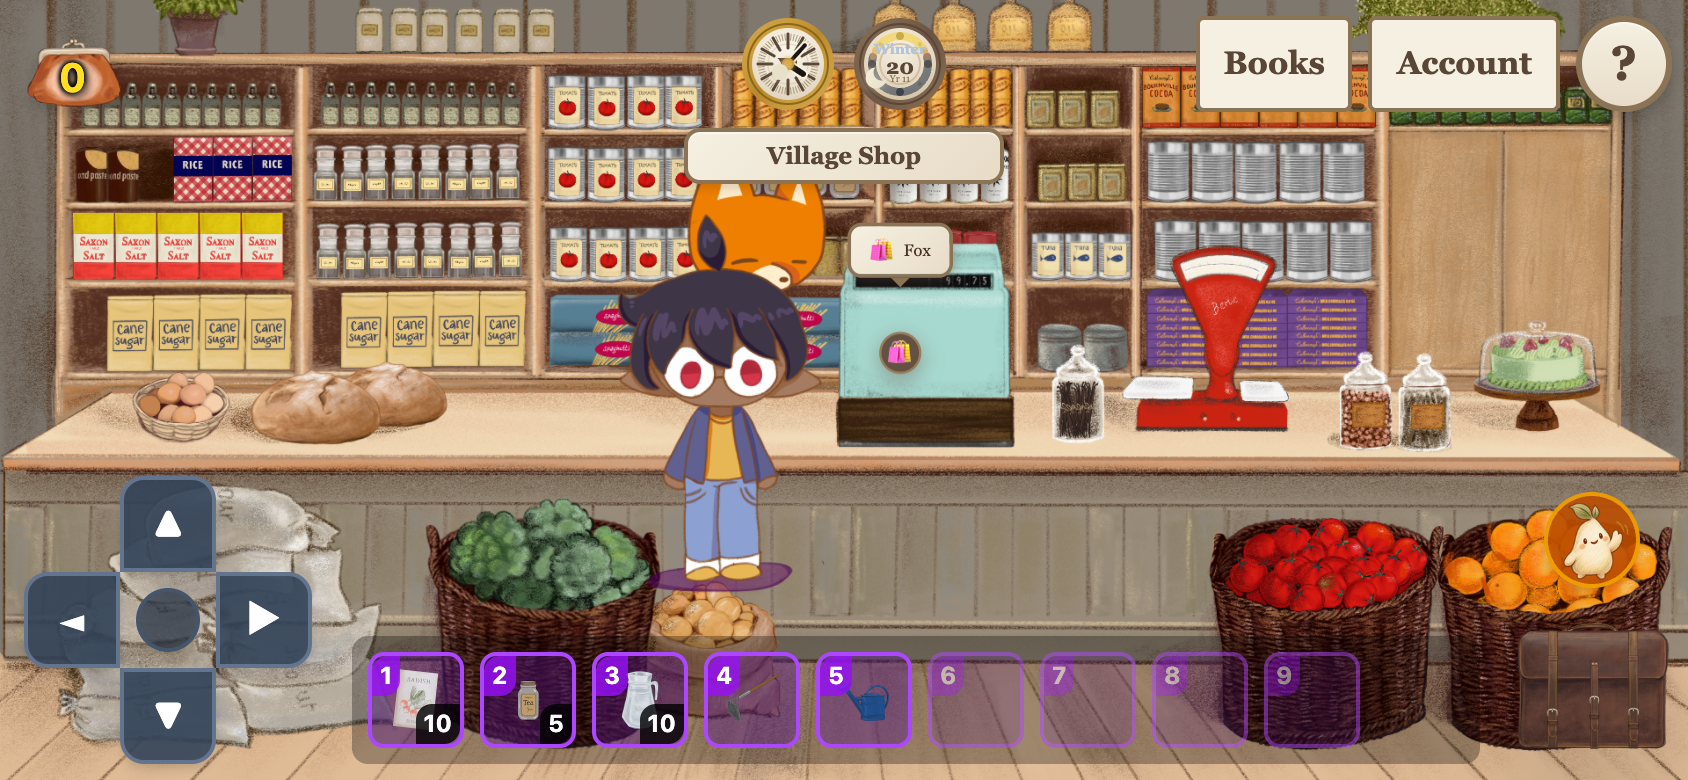
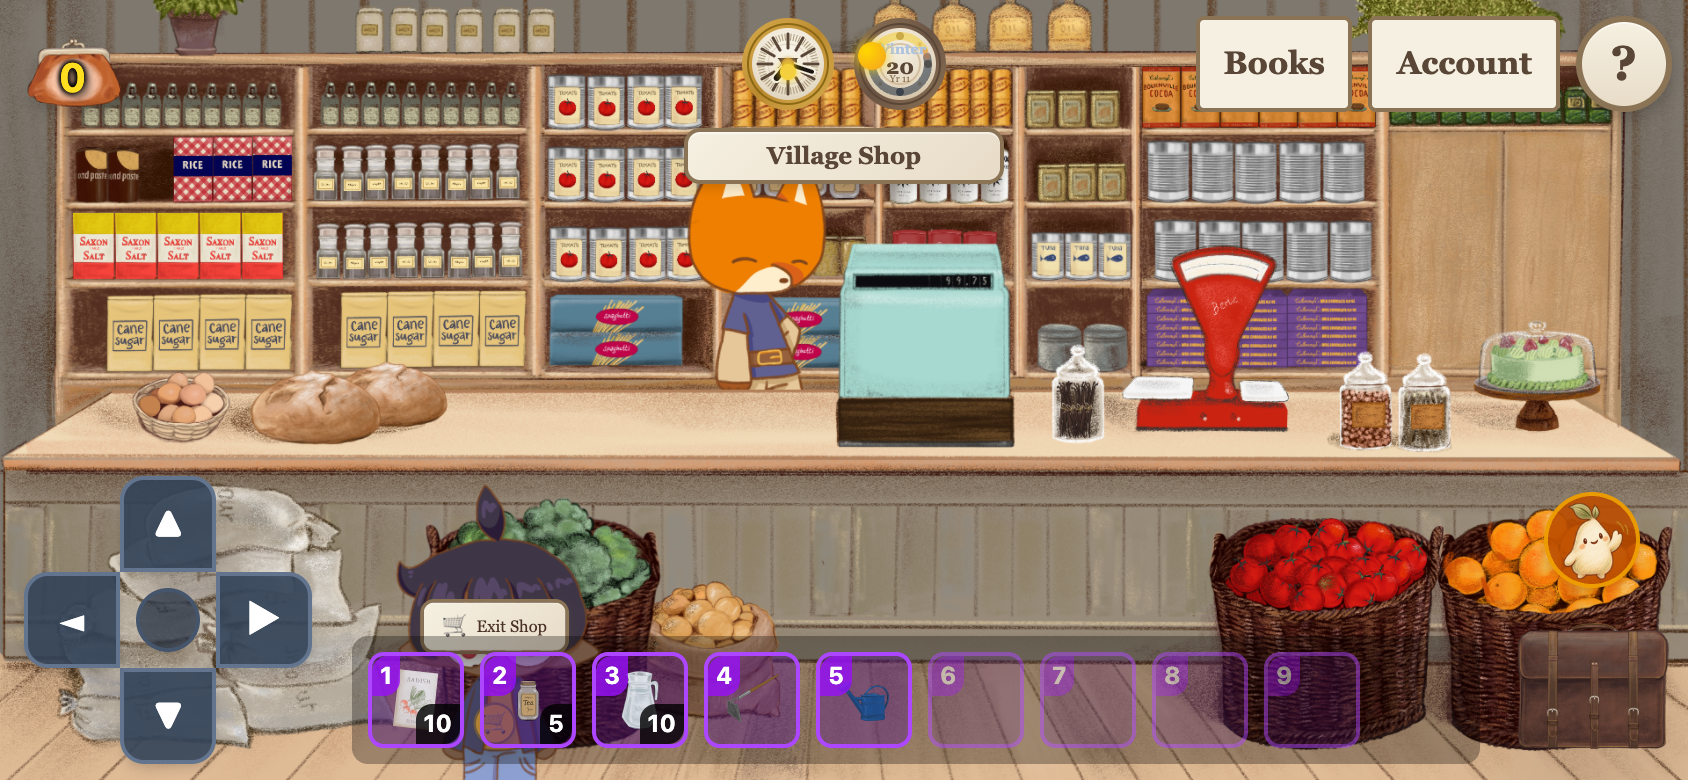
Correct shop review spawn and verify rendered zoom alignment

diff --git a/tests/interiorRenderedAlignment.test.ts b/tests/interiorRenderedAlignment.test.ts
@@ -1,0 +1,91 @@
+import * as PIXI from 'pixi.js';
+import { afterEach, expect, it, vi } from 'vitest';
+import { shop } from '../maps/definitions/shop';
+import { Direction } from '../types';
+import { BackgroundImageLayer } from '../utils/pixi/BackgroundImageLayer';
+import { PlayerSprite } from '../utils/pixi/PlayerSprite';
+import { textureManager } from '../utils/TextureManager';
+import { npcManager } from '../NPCManager';
+import { getRoomTransform } from '../utils/backgroundRoomLayout';
+import { screenToTile } from '../utils/screenToTile';
+
+afterEach(() => vi.restoreAllMocks());
+
+it('keeps rendered shop layers, player and inverse walkmesh coordinates aligned through zoom and pan', async () => {
+  vi.spyOn(textureManager, 'loadTexture').mockResolvedValue(PIXI.Texture.WHITE);
+  vi.spyOn(textureManager, 'getTexture').mockReturnValue(PIXI.Texture.WHITE);
+  vi.spyOn(npcManager, 'registerNPCs').mockImplementation(() => {});
+  const stage = new PIXI.Container();
+  const images = new BackgroundImageLayer();
+  images.setStage(stage);
+  const player = new PlayerSprite();
+  const actors = new PIXI.Container();
+  stage.addChild(actors);
+  player.setDepthContainer(actors);
+  try {
+    await images.loadLayers(shop, shop.id);
+    const artwork = stage.children.filter((child) => child instanceof PIXI.Sprite);
+    expect(artwork).toHaveLength(2);
+    for (const viewport of [
+      { width: 844, height: 390 },
+      { width: 640, height: 240 },
+    ]) {
+      for (const zoom of [viewport.width / 1440, 0.75, 1, 1.5]) {
+        for (const position of [shop.spawnPoint, { x: 9, y: 9 }, { x: 5, y: 10 }]) {
+          const layout = getRoomTransform(
+            shop,
+            position,
+            viewport,
+            1,
+            zoom,
+            Math.min(88, viewport.height * 0.2)
+          );
+          stage.scale.set(zoom);
+          images.setScalingConfig({
+            viewportScale: 1,
+            referenceWidth: 1280,
+            referenceHeight: 720,
+            viewportWidth: viewport.width / zoom,
+            viewportHeight: viewport.height / zoom,
+          });
+          images.setCenteredPan(layout.pan.x, layout.pan.y);
+          images.updateCamera(0, 0);
+          await player.update(
+            position,
+            Direction.Down,
+            0,
+            'test-player',
+            shop.characterScale,
+            layout.gridOffset,
+            layout.tileSize
+          );
+          const renderedPlayer = actors.children[0].getGlobalPosition();
+          for (const image of artwork) {
+            const bounds = image.getBounds();
+            // Authored grid uses 64px tiles on a 1200x675 image, independent of zoom.
+            expect((renderedPlayer.x - bounds.x) / bounds.width).toBeCloseTo(
+              (position.x * 64) / 1200
+            );
+            expect((renderedPlayer.y - bounds.y) / bounds.height).toBeCloseTo(
+              (position.y * 64) / 675
+            );
+          }
+          const tapped = screenToTile(
+            renderedPlayer.x,
+            renderedPlayer.y,
+            zoom,
+            0,
+            0,
+            layout.gridOffset,
+            layout.tileSize
+          );
+          expect(tapped.worldX).toBeCloseTo(position.x);
+          expect(tapped.worldY).toBeCloseTo(position.y);
+        }
+      }
+    }
+  } finally {
+    images.dispose();
+    stage.destroy({ children: true });
+  }
+});

diff --git a/docs/MOBILE_INTERIOR_CAMERA_PLAN.md b/docs/MOBILE_INTERIOR_CAMERA_PLAN.md
@@ -53,3 +53,11 @@ After those two rooms pass, apply the common camera policy to the other illustra
 - Geometry tests cover four viewport sizes, zoom limits, painted bounds and inverse tap coordinates. Loading tests cover duplicate pending loads and exiting before an image resolves.
 - Still pending: the complete on-device interaction/door route above, actual iPhone Firefox performance, and review of high zoom on very short viewports (the shop’s large authored character can extend above the screen). Fit provides the wider view. Do not expand the pilot to other rooms yet.
 - Parallax remains deferred until suitable separate decorative artwork is available. The village crash remains a separate investigation.
+
+## Review correction: shop spawn and player footprint
+
+The original shop screenshots incorrectly seeded `(8, 7)`, a blocked counter tile. They are superseded by captures starting at the actual `(10, 10)` spawn and walking on row 10. The original images did not demonstrate zoom drift.
+
+A new test instantiates the actual Pixi background layers and player sprite, comparing the rendered player position relative to both image bounds at Fit, 75%, 100% and 150%, through pan and resize. It also inverts the rendered position back to tile coordinates. All 1,334 tests pass. This establishes consistent scaling in that renderer path, not complete on-device correctness.
+
+The corrected captures expose a separate blocking layout problem: the centre-anchored, large shop player extends below the painted floor at the valid spawn. The edge-clamped camera cannot reserve space for the full player footprint and bottom HUD there. This occurs even at Fit. The pilot must remain unmerged pending an agreed player grounding / floor and HUD framing solution. Changing the authored walkmesh or sprite anchor needs deliberate review; do not hide the problem by selecting a prettier test position.
